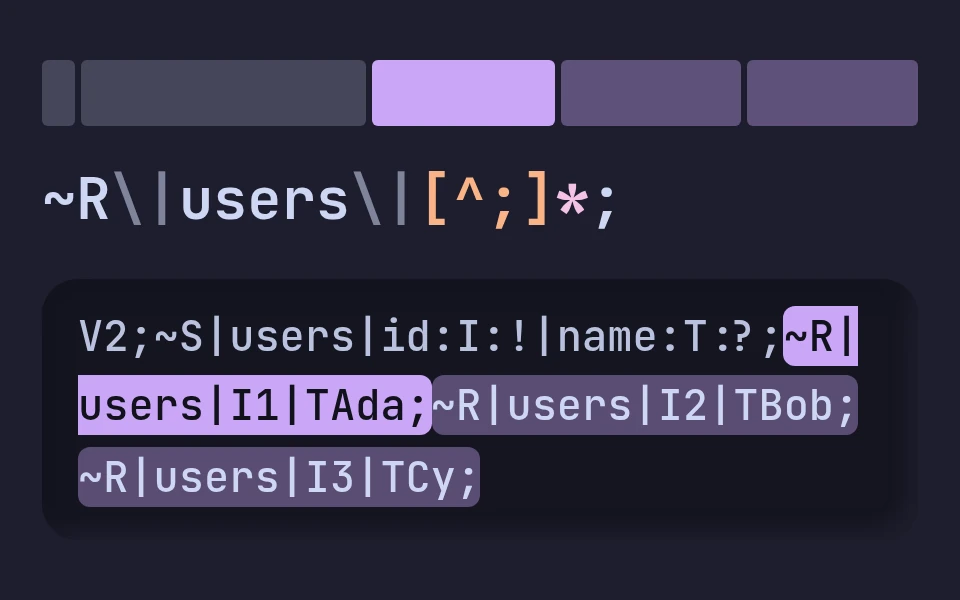
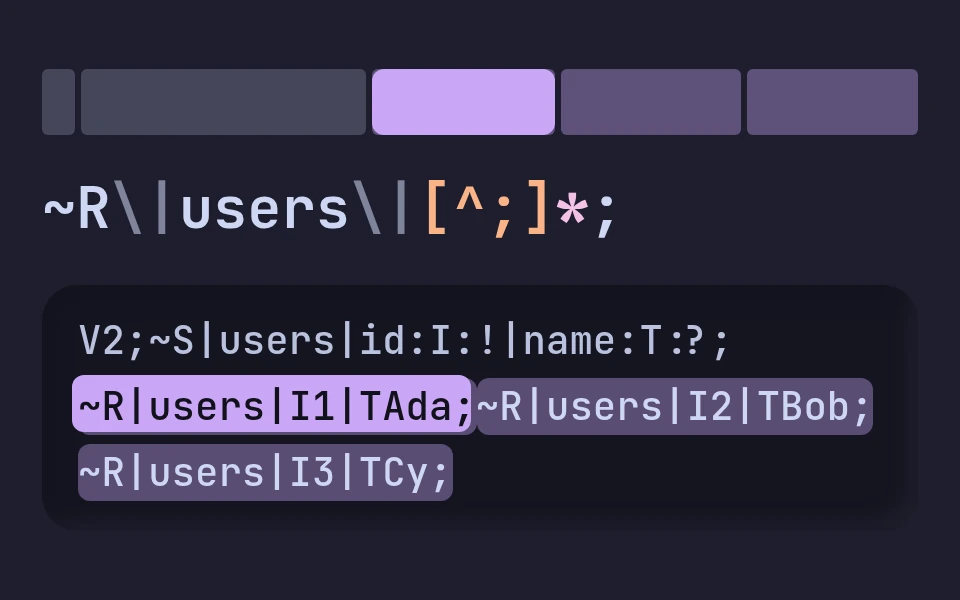
Slide the varchar highlight between matches
The current match used to jump from row to row. Now one mauve block
slides between the matches, and another slides along the tape. Records
break only at their semicolons, so each match stays on one line for the
block to cover.

diff --git a/art/varchar.html b/art/varchar.html
@@ -30,22 +30,37 @@
       .vc-rec.is-row { background: var(--surface-1); }
 
       .vc { width: 292px; }
-      .dock pre { margin: 0; font-size: 14px; line-height: 1.7; overflow-wrap: anywhere; }
+      .dock pre { margin: 0; font-size: 13px; line-height: 1.7; }
 
-      /* The current match steps through the three rows, a third of the loop
-         each; its tape record lights with it. */
-      @keyframes vc-cur {
-        0% { color: var(--crust); background: var(--mauve); }
-        33.333% { color: var(--text); background: var(--vc-match); }
+      /* The current match is one mauve block that slides from row to row,
+         and a second one slides along the tape. Each match's translucent
+         wash sits over the block, so the block shows through as solid
+         mauve. Records break only at their semicolons (<wbr>), so every
+         match stays on one line for the block to cover. */
+      .dock, .vc-track { position: relative; isolation: isolate; }
+      .dock pre { position: relative; z-index: 1; }
+      .vc-track .slider { z-index: 1; }
+      .slider {
+        position: absolute; left: var(--x1); top: var(--y1); width: var(--w1); height: var(--h1);
+        border-radius: 4px; background: var(--mauve);
+        animation: slide 4.5s infinite;
       }
-      @keyframes vc-cur-rec {
-        0% { background: var(--mauve); }
-        33.333% { background: var(--vc-match); }
+      .dock .slider { margin: -1px -2px; padding: 1px 2px; }
+      @keyframes slide {
+        0%, 24% { left: var(--x1); top: var(--y1); width: var(--w1); height: var(--h1); animation-timing-function: cubic-bezier(.65, 0, .35, 1); }
+        33.333%, 57.333% { left: var(--x2); top: var(--y2); width: var(--w2); height: var(--h2); animation-timing-function: cubic-bezier(.65, 0, .35, 1); }
+        66.667%, 90.667% { left: var(--x3); top: var(--y3); width: var(--w3); height: var(--h3); animation-timing-function: cubic-bezier(.65, 0, .35, 1); }
+        100% { left: var(--x1); top: var(--y1); width: var(--w1); height: var(--h1); }
       }
-      .dock mark { animation: vc-cur 4.5s step-end infinite; }
-      .vc-rec.is-lit { animation: vc-cur-rec 4.5s step-end infinite; }
-      .m2 { animation-delay: -3s !important; }
-      .m3 { animation-delay: -1.5s !important; }
+      /* A match's text is crust only while the block rests under it, and
+         fades back as the block leaves, so no text goes dark mid-slide. */
+      @keyframes cur1 { 0%, 24% { color: var(--crust); } 26%, 98% { color: var(--text); } 100% { color: var(--crust); } }
+      @keyframes cur2 { 0%, 31.333% { color: var(--text); } 33.333%, 57.333% { color: var(--crust); } 59.333%, 100% { color: var(--text); } }
+      @keyframes cur3 { 0%, 64.667% { color: var(--text); } 66.667%, 90.667% { color: var(--crust); } 92.667%, 100% { color: var(--text); } }
+      .m1 { animation: cur1 4.5s infinite; }
+      .m2 { animation: cur2 4.5s infinite; }
+      .m3 { animation: cur3 4.5s infinite; }
+      .vc-rec.is-lit { background: var(--vc-match); }
     </style>
   </head>
   <body>
@@ -54,13 +69,32 @@
         <span class="vc-rec is-row" style="flex: 3"></span>
         <span class="vc-rec is-row" style="flex: 25"></span>
         <span class="vc-rec is-lit" style="flex: 16"></span>
-        <span class="vc-rec is-lit m2" style="flex: 16"></span>
-        <span class="vc-rec is-lit m3" style="flex: 15"></span>
+        <span class="vc-rec is-lit" style="flex: 16"></span>
+        <span class="vc-rec is-lit" style="flex: 15"></span>
+        <span class="slider"></span>
       </div>
       <pre class="pattern cn-code"><span class="re-lit">~R</span><span class="re-esc">\|</span><span class="re-lit">users</span><span class="re-esc">\|</span><span class="re-class">[^;]</span><span class="re-quant">*</span><span class="re-lit">;</span></pre>
       <div class="dock terminal">
-        <pre>V2;~S|users|id:I:!|name:T:?;<mark>~R|users|I1|TAda;</mark><mark class="m2">~R|users|I2|TBob;</mark><mark class="m3">~R|users|I3|TCy;</mark></pre>
+        <span class="slider"></span>
+        <pre>V2;<wbr>~S|users|id:I:!|name:T:?;<wbr><mark class="m1">~R|users|I1|TAda;</mark><wbr><mark class="m2">~R|users|I2|TBob;</mark><wbr><mark class="m3">~R|users|I3|TCy;</mark></pre>
       </div>
     </div>
+    <script>
+      // Hand each slider the boxes it moves between: the three matches in
+      // the dock and their three records on the tape, in its own coordinates.
+      const place = (box, els) =>
+        els.forEach((el, i) => {
+          let x = 0, y = 0;
+          for (let n = el; n && n !== box; n = n.offsetParent) (x += n.offsetLeft), (y += n.offsetTop);
+          box.style.setProperty(`--x${i + 1}`, `${x}px`);
+          box.style.setProperty(`--y${i + 1}`, `${y}px`);
+          box.style.setProperty(`--w${i + 1}`, `${el.offsetWidth}px`);
+          box.style.setProperty(`--h${i + 1}`, `${el.offsetHeight}px`);
+        });
+      document.fonts.ready.then(() => {
+        place(document.querySelector(".dock"), [...document.querySelectorAll(".dock mark")]);
+        place(document.querySelector(".vc-track"), [...document.querySelectorAll(".vc-rec.is-lit")]);
+      });
+    </script>
   </body>
 </html>
